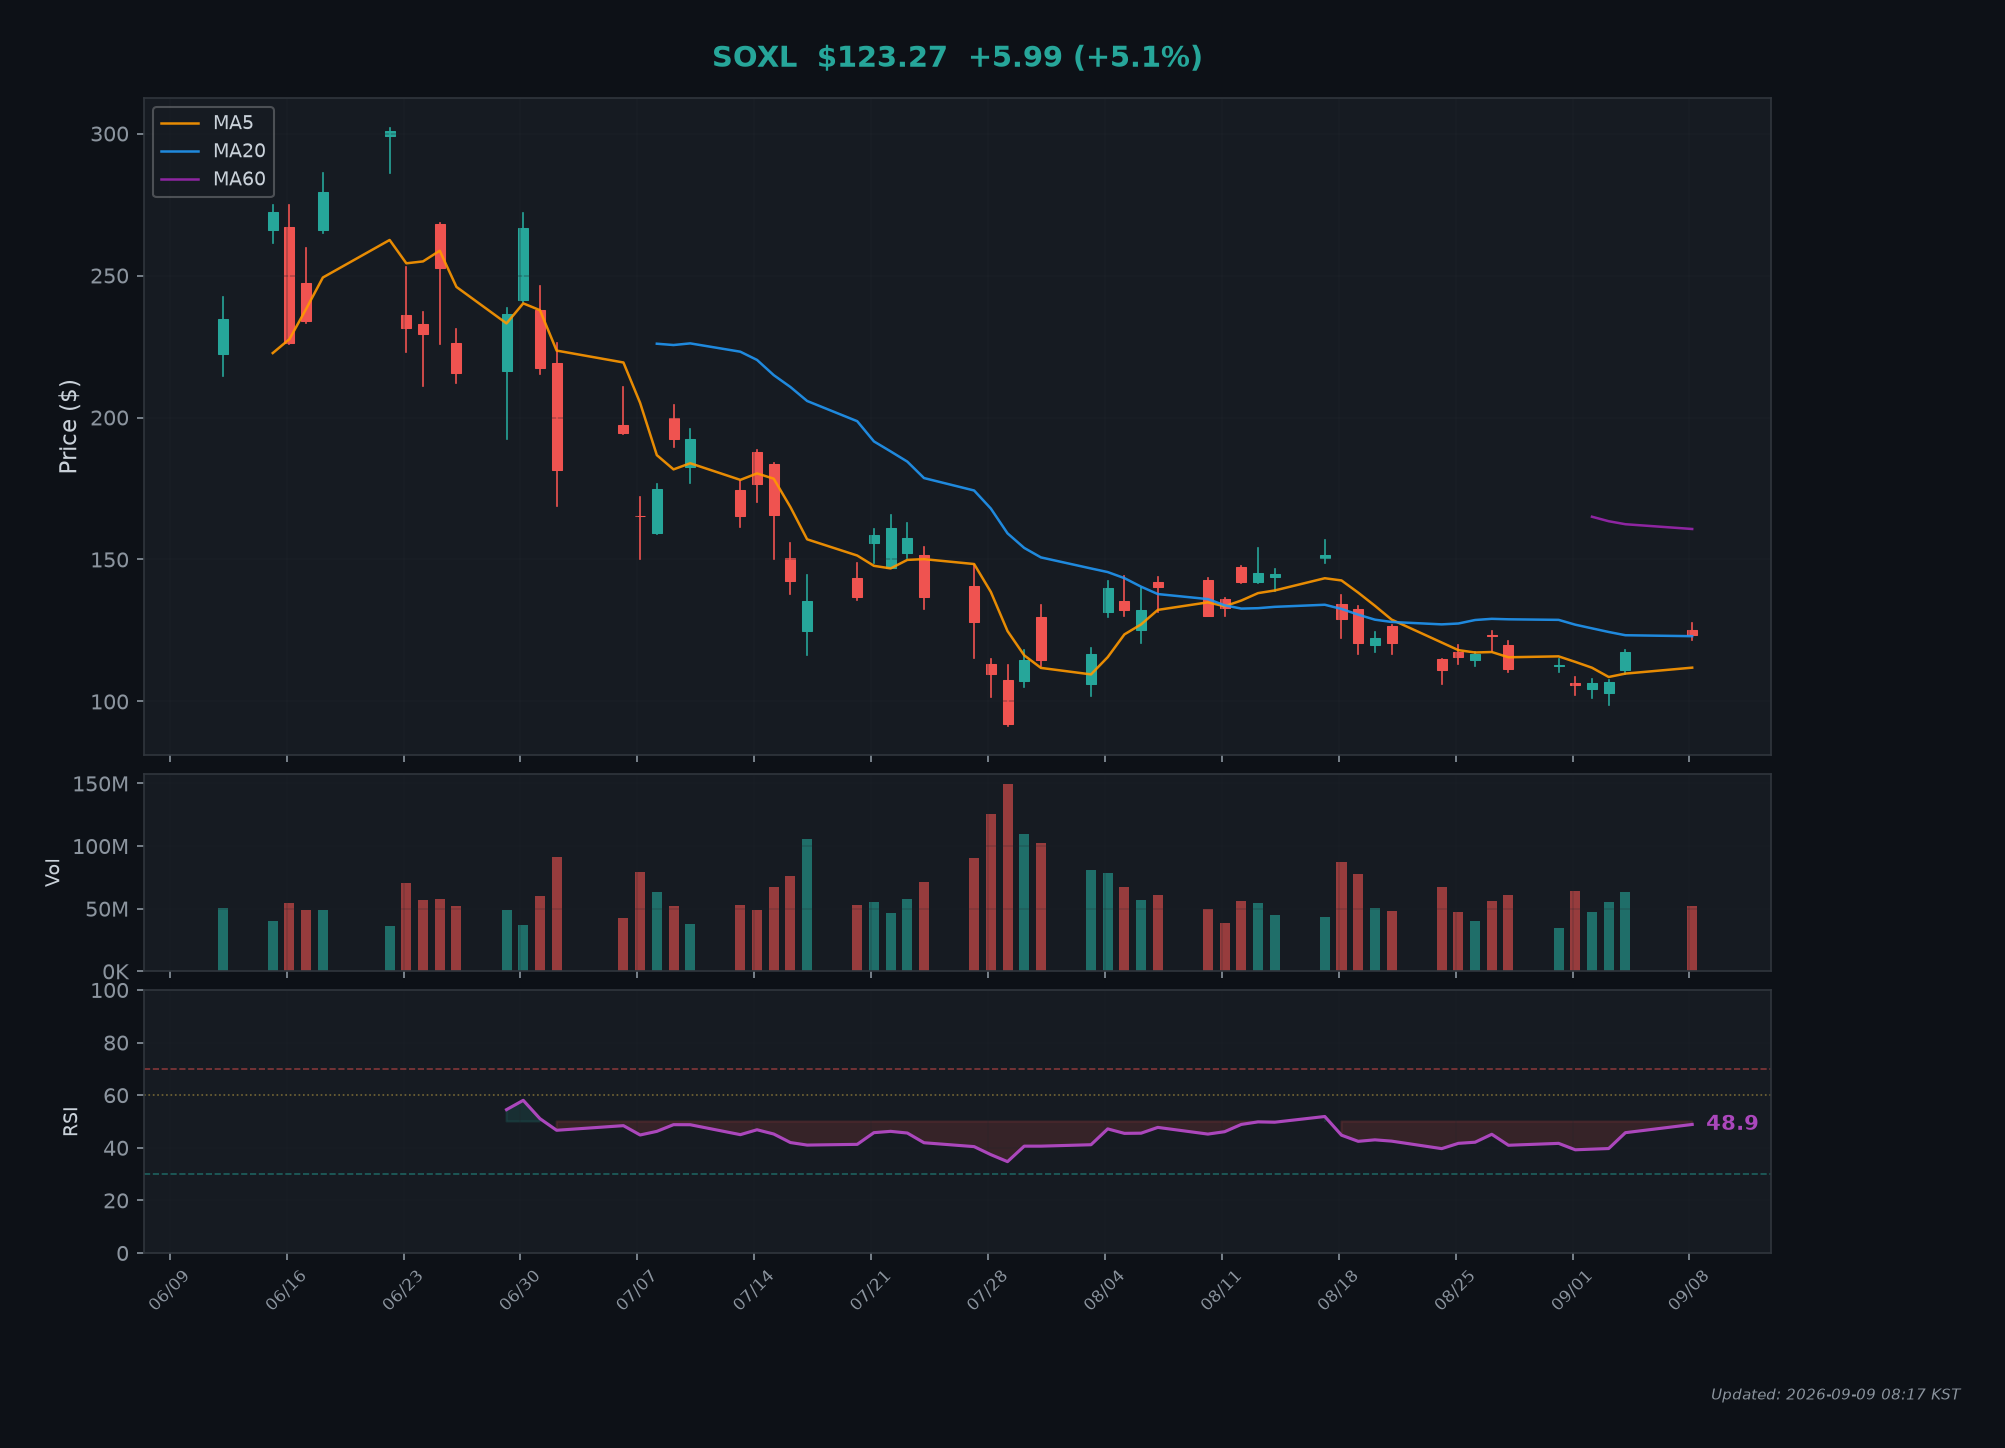
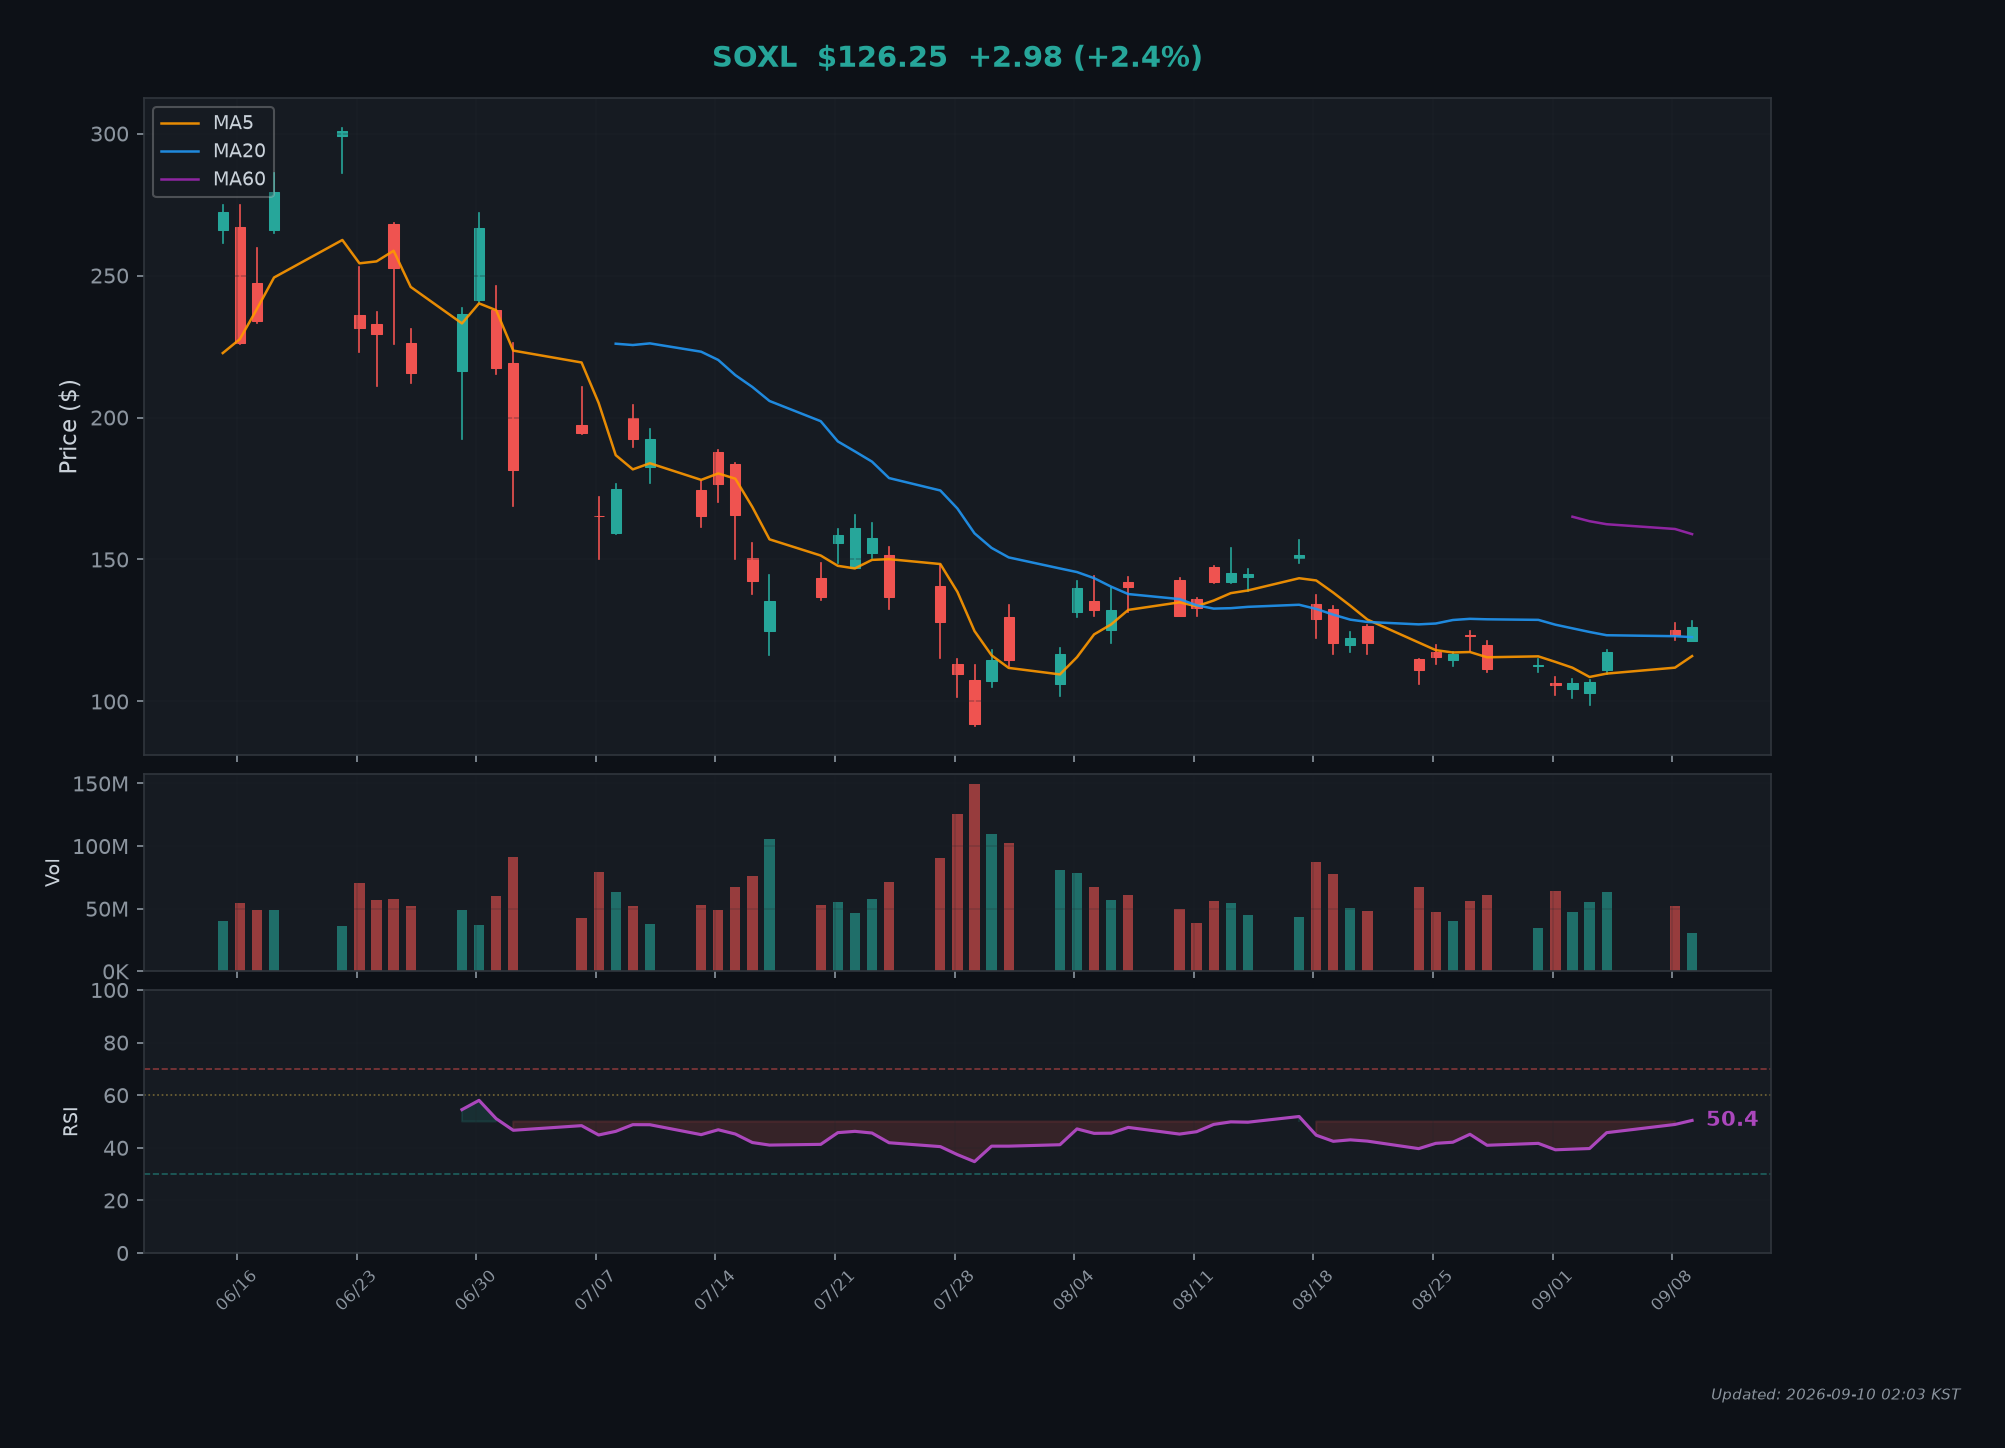
🎯 일일 추천 리포트 2026-09-09

diff --git a/README.md b/README.md
@@ -15,19 +15,19 @@
 | 항목 | 상태 |
 |------|------|
 | 미국 시장 | 🟢 개장중 |
-| 현재 시간 (ET) | 2026-09-08 13:06:19 ET |
-| 요일 | 화요일 |
-| 마지막 갱신 | 2026-09-09 02:06 KST |
+| 현재 시간 (ET) | 2026-09-09 13:03:29 ET |
+| 요일 | 수요일 |
+| 마지막 갱신 | 2026-09-10 02:03 KST |
 
 ---
 
 ## 🎯 오늘의 매수/매도 추천
 
-> 📅 **2026-09-09** 기준 추천 내역
+> 📅 **2026-09-10** 기준 추천 내역
 
 ### 💹 TQQQ
 
-**현재가:** $72.79 📈 +0.6% | **RSI:** 52.84 | **거래량:** 35,749,786
+**현재가:** $71.66 📉 -0.7% | **RSI:** 50.36 | **거래량:** 29,183,043
 
 #### 📊 시뮬레이션 상태
 
@@ -44,13 +44,13 @@
 
 #### 💡 추천 요약
 
-> 🟢 1회차 진입 신호! RSI=52.84 | 시장가 매수 추천 ($100)
+> 🟢 1회차 진입 신호! RSI=50.36 | 시장가 매수 추천 ($100)
 
 #### 🛒 매수 주문
 
 | 방식 | 주문가 | 금액 | 예상 수량 | 비고 |
 |------|--------|------|-----------|------|
-| 🟢 시장가 (1회차 첫 매수) | $72.79 | $100.0 | 1.3738주 | 장중 아무 시점에 1회차 분량 시장가 매수 |
+| 🟢 시장가 (1회차 첫 매수) | $71.66 | $100.0 | 1.3954주 | 장중 아무 시점에 1회차 분량 시장가 매수 |
 
 #### 📉 차트
 
@@ -60,7 +60,7 @@
 
 ### 💹 SOXL
 
-**현재가:** $125.51 📈 +7.0% | **RSI:** 49.83 | **거래량:** 39,266,054
+**현재가:** $126.25 📈 +2.4% | **RSI:** 50.41 | **거래량:** 30,594,020
 
 #### 📊 시뮬레이션 상태
 
@@ -77,13 +77,13 @@
 
 #### 💡 추천 요약
 
-> 🟢 1회차 진입 신호! RSI=49.83 | 시장가 매수 추천 ($100)
+> 🟢 1회차 진입 신호! RSI=50.41 | 시장가 매수 추천 ($100)
 
 #### 🛒 매수 주문
 
 | 방식 | 주문가 | 금액 | 예상 수량 | 비고 |
 |------|--------|------|-----------|------|
-| 🟢 시장가 (1회차 첫 매수) | $125.51 | $100.0 | 0.7967주 | 장중 아무 시점에 1회차 분량 시장가 매수 |
+| 🟢 시장가 (1회차 첫 매수) | $126.25 | $100.0 | 0.792주 | 장중 아무 시점에 1회차 분량 시장가 매수 |
 
 #### 📉 차트
 
@@ -115,6 +115,6 @@
 
 ---
 
-🤖 *자동 생성됨 | 2026-09-09 02:06 KST | GitHub Actions*
+🤖 *자동 생성됨 | 2026-09-10 02:03 KST | GitHub Actions*
 
 ⚠ **면책 조항**: 본 시스템은 교육/참고 목적이며, 실제 투자 손익에 대한 책임은 사용자에게 있습니다.
